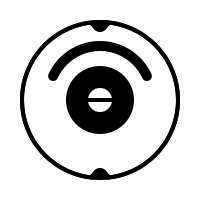
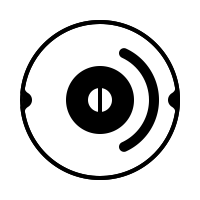
Basic animation of directions

diff --git a/directions.js b/directions.js
@@ -90,7 +90,6 @@ function drawDirections(directions, drawing_helper)
             
             let sign = ((currentDirection.turnDirection == TurnDirection.Left) ? 1 : -1)
             currentAngle += sign * currentDirection.degrees
-            console.log('new heading: ', currentAngle)
         }
         else
         {
@@ -99,8 +98,6 @@ function drawDirections(directions, drawing_helper)
             let nextPosition = Vec2.add(currentPosition, Vec2.scale(sign, Vec2.scale(currentDirection.distance, heading)))
 
             drawing_helper.drawLine(currentPosition, nextPosition)
-
-            console.log('new location: ', nextPosition.x, nextPosition.y)
 
             currentPosition = nextPosition
         }
@@ -162,4 +159,91 @@ function serializeDirections(directions, displayParagraph)
         displayParagraph.appendChild(document.createElement("br"))
     }
 
+}
+
+class RobotTracker
+{
+    constructor(straight_speed, rotation_speed)
+    {
+        this.straight_speed=straight_speed
+        this.rotation_speed=rotation_speed
+    }
+
+    timeForTurn(direction)
+    {
+        return direction.degrees / this.rotation_speed
+    }
+
+    timeForDriveStraight(direction)
+    {
+        return direction.distance / this.straight_speed
+    }
+
+    timeForDirection(direction)
+    {
+        if(direction.type == DirectionType.Drive)
+        {
+            return this.timeForDriveStraight(direction)
+        }
+        else if (direction.type == DirectionType.Turn)
+        {
+            return this.timeForTurn(direction)
+        }
+    }
+
+    get_location_rotation(directions, time)
+    {
+        let currentLocation = directions.startPoint
+        let currentAngle = directions.startAngle
+
+        let nextLocation = currentLocation
+        let nextAngle = currentAngle
+
+        let t = 0
+
+        let degreesToRadians = Math.PI / 180
+        for(const currentDirection of directions.directions)
+        {
+            if(currentDirection.type == DirectionType.Turn)
+            {
+                
+                let sign = ((currentDirection.turnDirection == TurnDirection.Left) ? 1 : -1)
+                nextLocation = currentLocation
+                nextAngle = currentAngle + sign * currentDirection.degrees
+
+            }
+            else
+            {
+                let heading = new Vec2(Math.cos(degreesToRadians * currentAngle), Math.sin(degreesToRadians * currentAngle))
+                let sign = ((currentDirection.driveDirection == DriveStraightDirection.Forward) ? 1 : -1)
+                nextLocation = Vec2.add(currentLocation, Vec2.scale(sign, Vec2.scale(currentDirection.distance, heading)))
+                nextAngle = currentAngle
+            }
+            
+
+            let direction_time = this.timeForDirection(currentDirection)
+            if(t + direction_time < time)
+            {
+                currentLocation = nextLocation
+                currentAngle = nextAngle
+                t += direction_time
+            }
+            else
+            {
+                let ret = new Object()
+
+                let direction_completion_ratio = (time - t) / direction_time
+                let s = direction_completion_ratio
+                ret.angle = (1 - s) * currentAngle + s * nextAngle
+
+                ret.location = Vec2.add(Vec2.scale(1 - s, currentLocation), Vec2.scale(s, nextLocation))
+                
+                return ret
+            }
+        }
+        let ret = new Object()
+            ret.angle = currentAngle
+            ret.location = currentLocation
+            return ret
+    }
 }

diff --git a/hello_animating.html b/hello_animating.html
@@ -3,6 +3,7 @@
 <body id="body">
     <canvas id="navigation_visual" width="150" height="150" style="background-image: url(BTS_mat.png); background-size: contain"></canvas>
     <script src = "drawing_helper.js"></script>
+    <script src = "directions.js"></script>
     <script src = "vector.js"></script>
     <script>
         const backround_mat = new Image()
@@ -12,8 +13,19 @@
     
         let current_time = 0
         let refresh_time = 20
-        let speed = 800 / 2
+        let speed = 100
         let rotation_speed = 360 / 2
+
+        let startPoint = new Vec2(400, 0)
+        let startAngle = 90
+
+        let directions = new Directions(startPoint, startAngle)
+
+        directions.push_direction(new Straight(200, DriveStraightDirection.Forward))
+        directions.push_direction(new Turn(90, TurnDirection.Right))
+        directions.push_direction(new Straight(200, DriveStraightDirection.Forward))
+
+        let robotTracker = new RobotTracker(speed, rotation_speed)
        
         const canvas2 = document.getElementById("navigation_visual")
         const context = canvas2.getContext("2d")
@@ -23,8 +35,7 @@
 
         //let scale = 
         backround_mat.addEventListener("load", () => {
-            
-
+    
             window.setInterval(draw, refresh_time)
 
         });
@@ -47,14 +58,12 @@
             context.clearRect(0, 0, canvas.width, canvas.height);
 
             let helper = new DrawingHelper(context, height, width / 800);
-            p_0 = new Vec2(0, 0);
-            p_1 = new Vec2(800, 800);
+            drawDirections(directions, helper)
 
-
-            helper.drawLine(p_0, p_1)
-            let p = new Vec2(speed * current_time, speed * current_time)
-            helper.drawImage(p, rotation_speed * current_time, robot_img)
+            let locAngle = robotTracker.get_location_rotation(directions, current_time)
+            helper.drawImage(locAngle.location, locAngle.angle, robot_img)
             
+
             
     
             current_time += refresh_time / 1000
